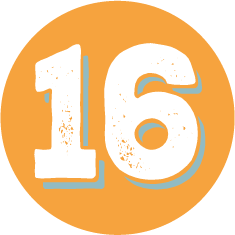
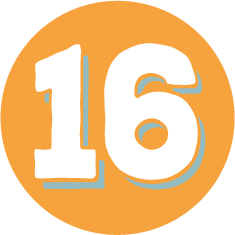
- Mise en place d'un son lors de la révélation du gagnant du jour

diff --git a/public/2-js/7-JourActuel.js b/public/2-js/7-JourActuel.js
@@ -16,6 +16,10 @@ function JourActuel(J, M)
     if (J <= JourMax && Mois == M - 1) { //Si on est le bon mois mais au maximum le 24/25
         if (localStorage.getItem(Clef) == null || localStorage.getItem(Clef) != Valeur) {
             $(Jours[J - 1]).on('click', function () {
+                son = document.getElementById('son');
+                if (son) {
+                    son.play();
+                }
                 localStorage.setItem(Clef, Valeur); //Mise en place du clic de sauvegarde de la révélation
             });
             $(Jours[J - 1]).addClass('AnimationOuvrable');

diff --git a/src/Entity/Application.php b/src/Entity/Application.php
@@ -54,6 +54,7 @@ class Application
             'images' => '3-images',
             'polices' => '4-polices',
             'documents' => '5-documents',
+            'musiques' => '6-musiques',
         ];
 
         $this->fichiers = [
@@ -79,6 +80,7 @@ class Application
             'CouleurFond' => ['type' => 'string', 'nom' =>  'COULEUR_FOND'],
             'CouleurTexte' => ['type' => 'string', 'nom' =>  'COULEUR_TEXTE'],
             'Noel' => ['type' => 'bool', 'nom' =>  'NOEL'],
+            'Audio' => ['type' => 'bool', 'nom' =>  'AUDIO'],
             'Neige' => ['type' => 'int', 'nom' =>  'NEIGE'],
             'Forme' => ['type' => 'int', 'nom' =>  'FORME'],
             'Style' => ['type' => 'int', 'nom' =>  'STYLE'],

diff --git a/src/Service/Parametre.php b/src/Service/Parametre.php
@@ -29,6 +29,12 @@ class Parametre
         return 24 + ($this->parametre->get('Noel') === true);
     }
 
+    public function getAudio(): bool
+    {
+        /* Retourne l'activation ou non d'un son lors du clic sur le gagnant du jour */
+        return ($this->parametre->get('Audio') === true);
+    }
+
     /** @return array<string, string> */
     public function getNeige(): array
     {
